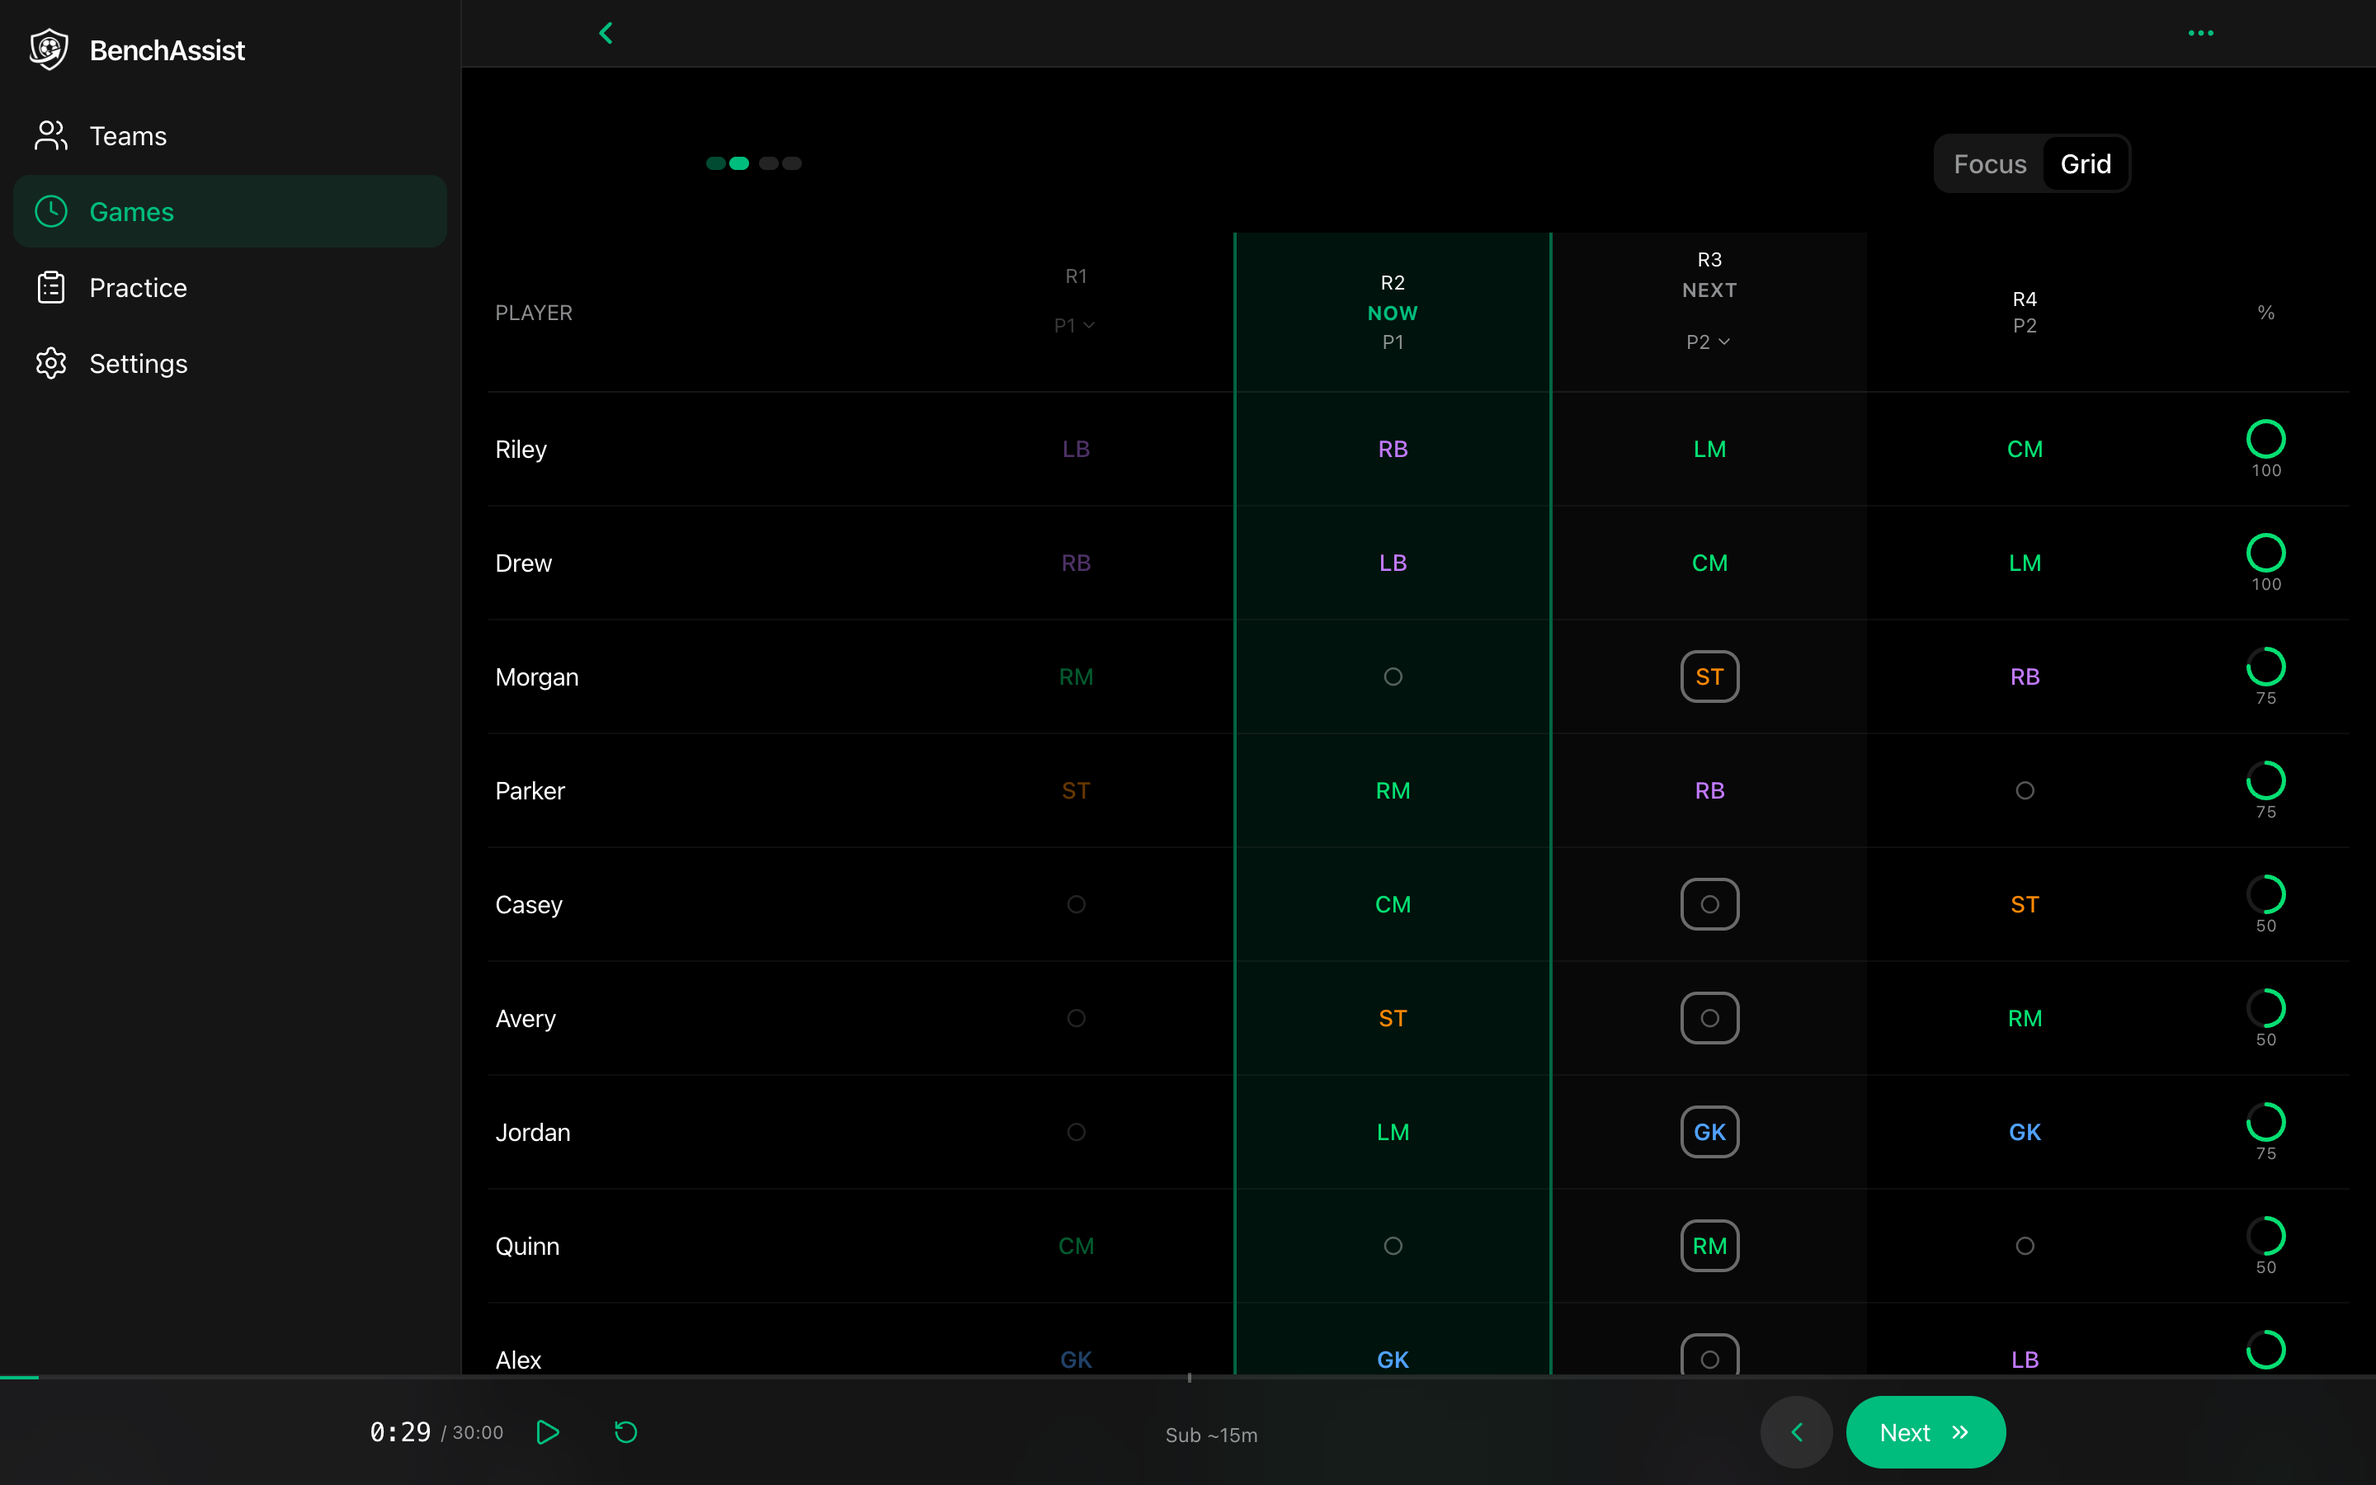
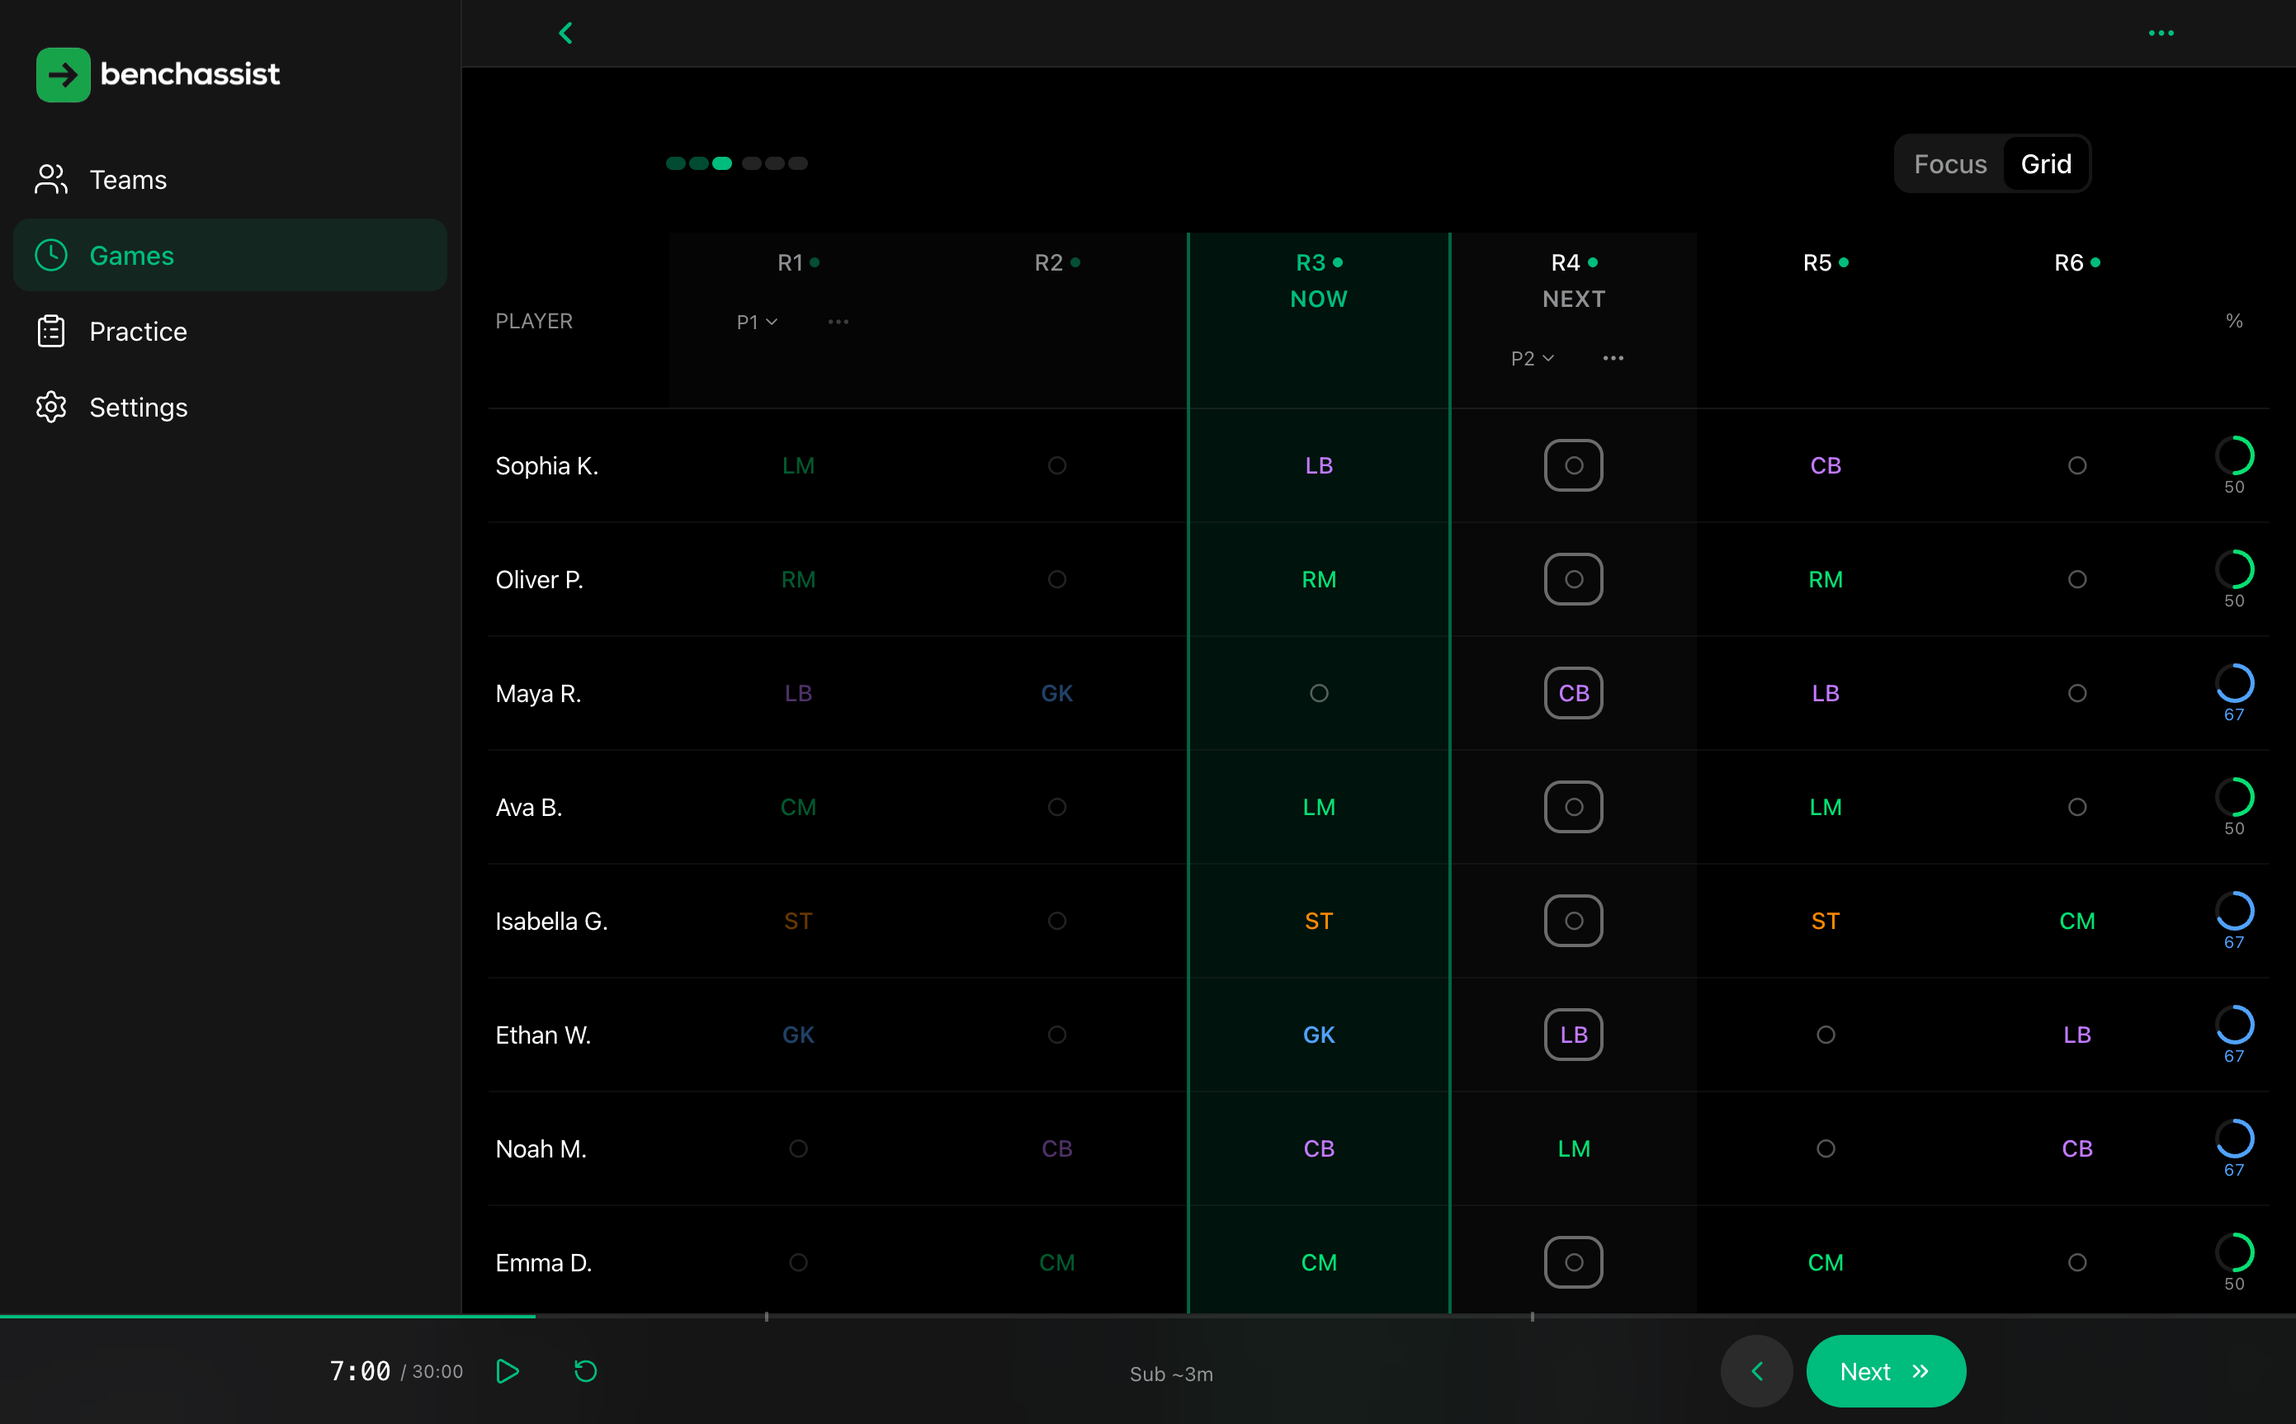
Update CLAUDE.md and refresh README screenshots
Document recent features: MIP solver (HiGHS WASM), coach plan/direct
entry, playtime optimization, period redivision, live regenerate with
lock policies, i18n (en + es-MX), and schema v6 migrations. Refresh
all 5 README screenshots with current UI.

diff --git a/CLAUDE.md b/CLAUDE.md
@@ -21,7 +21,7 @@ BenchAssist is a PWA for managing player rotations in team sports (soccer). Coac
 
 ## Architecture
 
-**Stack:** React 19 + TypeScript + Vite 7, Tailwind CSS v4, shadcn/ui (new-york style), React Router v7, Immer for state updates, Vitest + Testing Library + fishery factories for tests.
+**Stack:** React 19 + TypeScript + Vite 7, Tailwind CSS v4, shadcn/ui (new-york style), React Router v7, Immer for state updates, i18next for localization, Vitest + Testing Library + fishery factories for tests.
 
 **Path alias:** `@/` maps to `src/`.
 
@@ -37,10 +37,16 @@ All app state lives in `src/context/AppContext.tsx` — a single `useReducer` + 
 
 - **Team** → has **Roster[]** (player lists) and **GameConfig[]** (format presets)
 - **Roster** → has **Player[]** (name, skillRanking 1-5, canPlayGoalie, positions)
-- **GameConfig** → defines field size, periods, rotations per period, constraint rules (no consecutive bench, min play time, goalie rest, skill balance priority)
-- **Game** → references a team, roster, and config. Tracks absent players, goalie assignments, manual overrides, the generated RotationSchedule, and live game state (currentRotationIndex)
+- **GameConfig** → defines field size, periods, rotations per period, constraint rules (no consecutive bench, min play time, goalie rest, skillBalance boolean)
+- **Game** → references a team, roster, and config. Tracks absent players, goalie assignments, manual overrides (with `lockMode`: hard/soft), the generated RotationSchedule, period divisions, optimization suggestions, and live game state (currentRotationIndex, removedPlayerIds, addedPlayerIds)
 
 Entity IDs (`TeamId`, `PlayerId`, etc.) are string type aliases generated via `uuid` v4 in `src/utils/id.ts`.
+
+**Key Game fields:**
+
+- `periodDivisions: number[]` — per-period rotation counts (defaults from config, adjustable via period redivision)
+- `optimizationSuggestion` — post-solve suggestion for better period divisions (set by solver worker)
+- `manualOverrides` — each override has a `lockMode: 'hard' | 'soft'` controlling how strictly it's honored during re-solve
 
 ### Field Position System
 
@@ -48,31 +54,62 @@ Entity IDs (`TeamId`, `PlayerId`, etc.) are string type aliases generated via `u
 
 ### Rotation Solver (Web Worker)
 
-The solver runs in a Web Worker (`src/workers/rotation-solver.worker.ts`) to avoid blocking the UI. Communication uses typed `SolverRequest`/`SolverResponse` messages (`src/types/solver.ts`).
+The solver runs in a Web Worker (`src/workers/rotation-solver.worker.ts`) to avoid blocking the UI. Communication uses typed `SolverRequest`/`SolverResponse` messages (`src/types/solver.ts`). The worker terminates after each solve and re-creates on next call (HiGHS WASM heap corruption workaround).
 
-The core algorithm (`src/workers/solver/exhaustive.ts`) uses exhaustive search with pruning:
+**Two-tier solving approach:**
 
-1. Calculate bench counts per player (weighted by inverse skill ranking)
-2. Generate valid bench patterns per player respecting constraints (goalie periods, manual overrides, max consecutive bench)
-3. Search all combinations, pruning when bench slot counts exceed capacity
-4. Score solutions by team strength variance (lower = more balanced)
-5. Build the final RotationSchedule from the best combination
+1. **MIP solver** (`src/workers/solver/mipSolver.ts`): Uses HiGHS WASM (`highs` npm package) for initial bench assignment. `constraintPreparation.ts` prepares the constraint context, `mipModelBuilder.ts` builds the LP model, `mipSolutionExtractor.ts` reads the solution, and `mipErrorMapper.ts` maps solver errors to user-friendly messages.
+2. **Exhaustive search** (`src/workers/solver/exhaustive.ts`): Refines the MIP solution with position optimization, scoring by team-strength variance (lower = more balanced).
+
+**Post-solve optimization** (`src/workers/solver/optimizationCheck.ts`): After solving, checks if adjusting period divisions (e.g., adding a rotation to a period) could improve the play-percentage gap by ≥5pp. If so, attaches an `OptimizationSuggestion` to the solver response.
+
+**Constraint relaxation:** When `allowConstraintRelaxation` is set (live regenerate), the solver falls back on infeasible solves — relaxing no-consecutive-bench first, then min-play-time.
 
 The `useSolver` hook (`src/hooks/useSolver.ts`) manages the worker lifecycle, providing `solve`/`cancel`/`reset` + progress/result/error state. Supports mid-game re-solve via `startFromRotation` + `existingRotations` params, merged with `mergeSchedules()`.
 
+### Coach Plan / Direct Entry
+
+Route: `/games/:gameId/direct-entry`. Page component: `DirectEntry.tsx`, matrix component: `DirectEntryMatrix.tsx`.
+
+Allows coaches to manually build rotation plans by filling a matrix grid (rotations × player slots). Each cell assignment can be locked:
+
+- **Hard lock** — constraint must be satisfied during solve/re-solve
+- **Soft lock** — preferred but can be relaxed during optimization
+
+Types and utilities in `src/utils/directEntry.ts` (`DirectEntrySlot`, `DirectEntryDraft`, `DirectEntryCell`).
+
+### Playtime Optimization
+
+When the solver detects that adjusting period divisions could improve play-time balance:
+
+- `PlaytimeOptimizeBanner.tsx` displays a suggestion banner on the rotation grid
+- `OptimizeDivisionsSheet.tsx` shows optimization options grouped by added rotations with live feasibility checking
+- `divisionOptimizer.ts` generates balanced division candidates and evaluates theoretical play-percentage distributions
+- `APPLY_OPTIMIZED_SCHEDULE` action applies the chosen division change + re-solved schedule
+
+### Period Redivision
+
+`src/utils/rotationDivision.ts` with `redivideSchedulePeriod()` — dynamically adjusts rotations within a period (e.g., 2→3 rotations). Expanding proportionally clones rotations; contracting merges equivalent ones. In live mode, only future periods can be redivided (past/current locked). `PeriodDivisionSheet.tsx` provides the UI.
+
 ### Routing (`src/App.tsx`)
 
-All routes are nested inside `AppShell` (layout with navigation):
+All page components are lazy-loaded via `React.lazy()`. A `Welcome` gate shows for first-run users (no data and not previously welcomed). All routes are nested inside `AppShell` (layout with navigation):
 
-- `/` — Teams home (team list and creation)
+- `/` — Dashboard (team list and creation)
 - `/teams/:teamId` — Team management (rosters, configs)
 - `/teams/:teamId/rosters/:rosterId` — Roster editor (bulk import, positions)
-- `/games/new` — Game setup (config, roster, absent players, goalie assignments), typically launched from the Games page `+` action
-- `/games/:gameId/rotations` — Rotation grid + live game (single page handles both setup and live modes based on `game.status`)
+- `/games/new` — Game setup (config, roster, absent players, goalie assignments)
+- `/games/:gameId/direct-entry` — Coach Plan (manual rotation matrix entry)
+- `/games/:gameId/rotations` — Rotation grid + live game (handles setup, live, and completed modes based on `game.status`)
 - `/games/:gameId/live` — Redirects to `../rotations`
 - `/games` — Game history
 - `/practice` — Practice planner (drill library, age-based plans)
-- `/settings` — Appearance (theme), export/import, PWA update check
+- `/settings` — Appearance (theme, locale), export/import, PWA update check
+- `/help` — Help & FAQ
+
+### Internationalization (i18n)
+
+`src/i18n/config.ts` configures i18next with react-i18next. Locales: `en` (English), `es-MX` (Spanish). Namespaces: `common`, `game`, `roster`, `practice`, `settings`, `faq`. Locale stored in localStorage (key `benchassist_locale`), auto-detected from browser on first visit. Use `const { t } = useTranslation('namespace')` in components.
 
 ### Practice Planner
 
@@ -80,26 +117,46 @@ Drill library in `src/data/drills.ts` with age-bracket matching via `getDrillBra
 
 ### Live Game
 
-Game status lifecycle: `setup` → `in-progress` → `completed`. The rotation grid page (`RotationGrid.tsx`) handles both modes — live mode shows a focus view (side-by-side Now/Next rotation cards) or full grid, toggled by the user.
+Game status lifecycle: `setup` → `in-progress` → `completed`. The rotation grid page (`RotationGrid.tsx`) handles all modes — live mode shows a focus view (side-by-side Now/Next rotation cards) or full grid, toggled by the user.
 
 **Period timer** (`usePeriodTimer`): Timer state (`periodTimerStartedAt`, `periodTimerPausedElapsed`) is stored on the `Game` domain object, surviving page refresh. Audio alert (Web Audio API, 800Hz sine) fires when elapsed crosses a substitution marker. Timer auto-resets on period boundary via `ADVANCE_ROTATION`.
 
 **Mid-game changes:** Removing or adding a player dispatches an action then triggers an immediate re-solve from `currentRotationIndex` with existing rotations preserved. Guard prevents removal below `fieldSize` players.
 
+**Live regenerate:** `LiveRegenerateLockPolicySheet.tsx` offers 3 lock policies for how manual overrides are handled during re-solve: `off` (ignore all), `hard-only` (honor hard locks), `hard+soft` (honor both with fallback relaxation). `RegeneratePreviewSheet.tsx` shows a diff of changed cells before confirming. Fallback order on infeasible: relax no-consecutive-bench first, then min-play-time.
+
 ### Export/Import & Schema Migration
 
 Export (`src/storage/exportImport.ts`): `filterStorageData()` strips data by per-team selections (rosters/configs/history), then `downloadJSON()` wraps it with `{ app: 'benchassist', version, exportedAt, data }`. Import validates the `app` field and runs `normalizeImportedData()` through the same migration pipeline as `loadData()`. Two import modes: **Import Selected** dispatches `MERGE_DATA` (merges by id, deduplicates), **Replace All** dispatches `IMPORT_DATA` (full overwrite). Both are undoable.
 
-**Schema versioning** (`src/storage/localStorage.ts`): `CURRENT_VERSION = 3`. `migrateData()` applies incremental steps (v1→v2: adds `gender: 'coed'`; v2→v3: adds `birthYear: null`). Both `loadData()` and import run migrations.
+**Schema versioning** (`src/storage/localStorage.ts`): `CURRENT_VERSION = 6`. `migrateData()` applies incremental steps (v1→v2: adds `gender: 'coed'`; v2→v3: adds `birthYear: null`; v3→v4: converts `balancePriority` to `skillBalance` boolean; v4→v5: adds `periodDivisions` to games; v5→v6: adds `lockMode` to manual overrides). Both `loadData()` and import run migrations.
 
 ### Key Utilities (`src/utils/`)
 
 - **stats.ts** — Player stats calculation, rotation strength scoring, `previewSwap()` for immutable swap operations with field position handling
 - **validation.ts** — Schedule validation (field size, goalie counts, consecutive bench, min play time)
 - **positions.ts** — Sub-position mapping, auto-assign to formation slots, display formatting
+- **divisionOptimizer.ts** — Generates balanced period-division candidates and evaluates theoretical play-percentage distributions
+- **rotationDivision.ts** — Period redivision logic (expand/contract rotations within a period)
+- **rotationLayout.ts** — Layout helpers (period offsets, ranges, rotation→period mapping)
+- **directEntry.ts** — Types and utilities for coach plan direct-entry matrix
+- **playPercentageOutliers.ts** — Identifies high-play outliers using MAD (median absolute deviation)
 - **parsePlayerImport.ts** — Parse bulk player imports (format: `Name: Skill`)
 - **practiceGenerator.ts** — Seeded practice plan generation from drill library
 - **diagramParser.ts** — Parses drill diagram DSL into renderable SVG elements
+- **age.ts** — Age/birth year utilities
+- **gameConfig.ts** — Game config helpers
+
+### Solver Internals (`src/workers/solver/`)
+
+- **constraintPreparation.ts** — Prepares solver constraint context from game config + player data
+- **mipSolver.ts** — HiGHS WASM integration, singleton lifecycle, solve orchestration
+- **mipModelBuilder.ts** — Builds LP/MIP model from prepared constraints
+- **mipSolutionExtractor.ts** — Extracts bench sets from HiGHS solution
+- **mipErrorMapper.ts** — Maps HiGHS error codes to user-friendly messages
+- **exhaustive.ts** — Exhaustive search with pruning for position optimization
+- **optimizationCheck.ts** — Post-solve analysis for period redivision opportunities
+- **position-planner.ts** — Position assignment planning logic
 
 ### Testing
 
@@ -112,6 +169,8 @@ Tests use Vitest with `globals: true` (no need to import `describe`/`it`/`expect
 - **Responsive layout:** `AppShell` renders `Sidebar` (visible `lg+` / ≥1024px) and `TabBar` (visible below `lg`). `LiveGameBar` sits above the tab bar when a game is in-progress. `NavBar` is the per-page top bar with back navigation.
 - **Styling:** Tailwind v4 with OKLch CSS variables defined in `src/index.css` via `@theme inline`. Dark mode via `.dark` class. Semantic color tokens (background, foreground, primary, destructive, etc.).
 - **Forms:** Manual `useState` per field, no form library. Validation in save handlers.
+- **i18n:** All user-facing strings go through `t()` from `useTranslation()`. Namespace per feature area (common, game, roster, practice, settings, faq). JSON translation files in `src/i18n/locales/{locale}/`.
+- **Lazy loading:** All page components use `React.lazy()` with dynamic imports in `App.tsx`.
 - **TypeScript:** Strict mode with `noUnusedLocals` and `noUnusedParameters`. ESLint FlatConfig with React Hooks + React Refresh rules.
 - **PWA:** vite-plugin-pwa with `registerType: 'autoUpdate'`, standalone display, green theme.
 - **Build/deploy:** Base URL is `/` (custom domain `benchassist.app`). `__BUILD_HASH__` global injected from `git rev-parse --short HEAD` at build time (typed in `src/globals.d.ts`).
